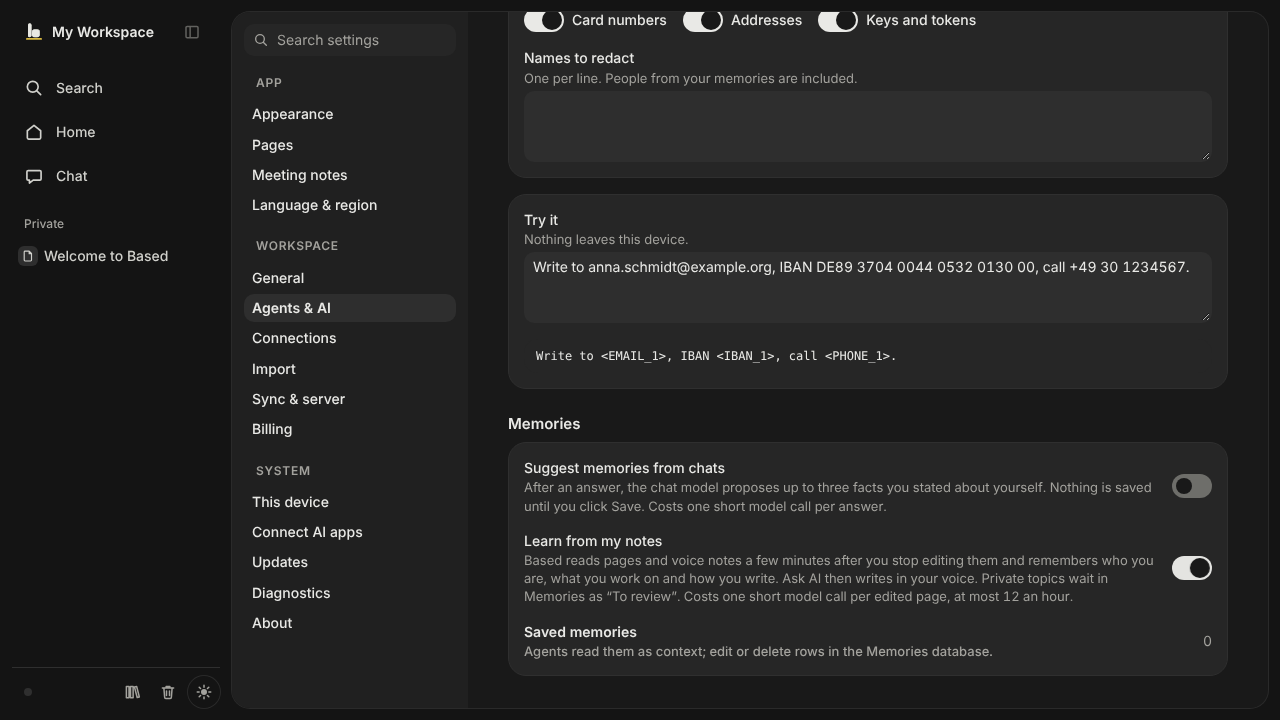
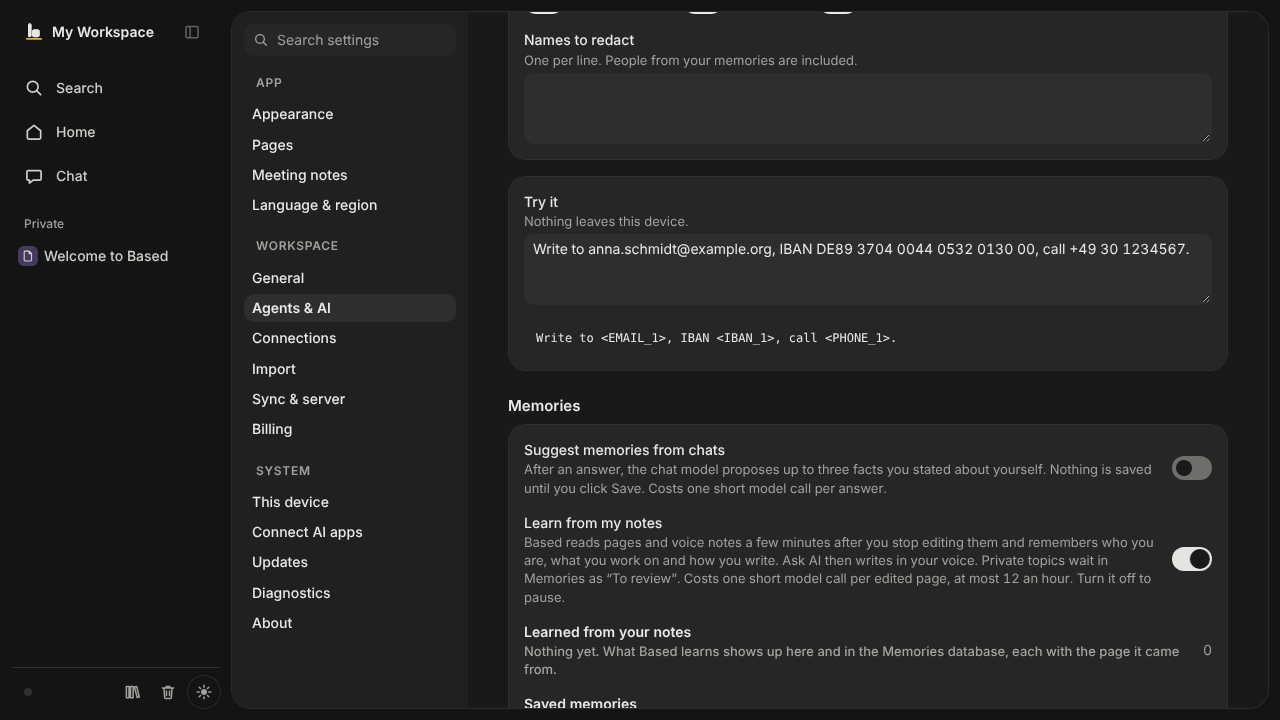
Gelerntes sichtbar und löschbar: Zeile „Learned from your notes“ mit „Forget…“
- gelernte Memories tragen „Learned from: <Seite>“ (statt Source), auch die heiklen
- AgentBrain.learnedMemories/forgetLearned (Papierkorb, wiederherstellbar; eigene Memories bleiben)
- Einstellungen → Memories: Anzahl, Hinweis auf „To review“, Rückfrage vor dem Vergessen

Claude-Session: https://claude.ai/code/session_01F33L4onQR2FbL2g6XSipVB

diff --git a/apps/web/src/brain/BrainSettings.tsx b/apps/web/src/brain/BrainSettings.tsx
@@ -6,11 +6,11 @@ import { Text } from "@astryxdesign/core/Text";
 import { TextArea } from "@astryxdesign/core/TextArea";
 import { VStack } from "@astryxdesign/core/Layout";
 import { Redactor, REDACT_KIND_LABELS, REDACT_KINDS, type SkillRecord } from "@based/brain";
-import { BasedButton } from "@based/ui/astryx";
+import { BasedButton, BasedConfirm } from "@based/ui/astryx";
 import { useEffect, useRef, useState, useSyncExternalStore } from "react";
 import { Group, Row, Value } from "../screens/settings/parts.js";
 import { registerSettingsSection, type SettingsSectionProps } from "../screens/settings/registry.js";
-import type { BrainStatus } from "../worker/brain.js";
+import type { BrainStatus, LearnedStatus } from "../worker/brain.js";
 import { BrainClient } from "./client.js";
 import { brainSettings } from "./settings.js";
 import "./brain.css";
@@ -143,8 +143,21 @@ function PrivacySection({ client: store }: SettingsSectionProps) {
 function MemoriesSection({ client: store, state, navigate }: SettingsSectionProps) {
   const client = useRef(new BrainClient(store)).current;
   const settings = useSyncExternalStore(brainSettings().subscribe, brainSettings().getState);
-  const [status] = useBrainStatus(client, state.outline);
+  const [status, reload] = useBrainStatus(client, state.outline);
   const ai = useSyncExternalStore(aiSetting.subscribe, aiSetting.get);
+  const [learned, setLearned] = useState<LearnedStatus>({ count: 0, review: 0 });
+  const [forgetting, setForgetting] = useState(false);
+  useEffect(() => { void client.learned().then(setLearned, () => undefined); }, [client, status]);
+  const forget = async () => {
+    await client.forgetLearned();
+    // Auch der Lesestand auf diesem Gerät: sonst gälten die Seiten weiter als gelesen.
+    try { localStorage.removeItem("based.brain.learn"); } catch { /* nur für diese Sitzung */ }
+    setForgetting(false);
+    reload();
+  };
+  const learnedHint = learned.count === 0
+    ? "Nothing yet. What Based learns shows up here and in the Memories database, each with the page it came from."
+    : `${learned.review > 0 ? `${learned.review} private ${learned.review === 1 ? "topic waits" : "topics wait"} as “To review” and ${learned.review === 1 ? "is" : "are"} not used yet. ` : ""}Each memory links the page it came from.`;
   return (
     <Group>
       {ai ? (
@@ -158,15 +171,24 @@ function MemoriesSection({ client: store, state, navigate }: SettingsSectionProp
       {ai ? (
         <Switch
           label="Learn from my notes"
-          description="Based reads pages and voice notes a few minutes after you stop editing them and remembers who you are, what you work on and how you write. Ask AI then writes in your voice. Private topics wait in Memories as “To review”. Costs one short model call per edited page, at most 12 an hour."
+          description="Based reads pages and voice notes a few minutes after you stop editing them and remembers who you are, what you work on and how you write. Ask AI then writes in your voice. Private topics wait in Memories as “To review”. Costs one short model call per edited page, at most 12 an hour. Turn it off to pause."
           value={settings.memories.learn === true} onChange={(on) => brainSettings().update((s) => ({ ...s, memories: { ...s.memories, learn: on } }))}
           labelPosition="start" labelSpacing="spread" width="100%"
         />
+      ) : null}
+      {ai && (settings.memories.learn === true || learned.count > 0) ? (
+        <Row label="Learned from your notes" hint={learnedHint}>
+          <Value testID="learned-count">{learned.count}</Value>
+          {learned.count > 0 ? <BasedButton label="Forget…" variant="ghost" onClick={() => setForgetting(true)} /> : null}
+        </Row>
       ) : null}
       <Row label="Saved memories" hint={ai ? "Agents read them as context; edit or delete rows in the Memories database." : "MCP clients read them as context; edit or delete rows in the Memories database."}>
         <Value testID="memory-count">{status?.memories ?? 0}</Value>
         {status?.exists && status.rootID ? <BasedButton label="Open Agent Brain" variant="ghost" onClick={() => navigate({ name: "page", id: status.rootID! })} /> : null}
       </Row>
+      <BasedConfirm open={forgetting} onClose={() => setForgetting(false)} title="Forget what Based learned?"
+        description={`${learned.count} ${learned.count === 1 ? "memory" : "memories"} learned from your notes, including your writing style, ${learned.count === 1 ? "moves" : "move"} to the Trash. Memories you saved yourself stay.`}
+        actionLabel="Forget" onConfirm={forget} />
     </Group>
   );
 }

diff --git a/packages/brain/src/agentbrain/store.ts b/packages/brain/src/agentbrain/store.ts
@@ -9,12 +9,12 @@
 // wird übernommen.
 import {
   addOption, addProperty, addRow, createDatabase, insertPage, isTrashed, keyOf, makeBlock, makeRecordID, MarkdownExporter, MarkdownImporter,
-  plainText, restorePages, setValue, sortKeys, titleOf, toRichText,
+  plainText, restorePages, setValue, sortKeys, titleOf, toRichText, trashPages,
   type Block, type BlockProps, type MarkdownBlock, type PropertyValue, type Tx, type WorkspaceStore,
 } from "@based/core";
 import { decodeSkill, encodeSkill, isTextData, skillFileLanguage, type SkillDocument, type SkillFolder } from "../skills/codec.js";
 import { MEMORY_KINDS, MEMORY_STATUSES, normalizedWords, similarTitles, type MemoryKind, type MemoryRecord, type MemoryStatus, type MemorySuggestion } from "../memory/suggestions.js";
-import { STYLE_TITLE } from "../memory/learn.js";
+import { isLearned, LEARNED_PREFIX, STYLE_TITLE } from "../memory/learn.js";
 import { tokenize } from "../semantic/text.js";
 
 /** Link auf eine Seite in Markdown (wird beim Schreiben eine Erwähnung und damit eine Kante im Graphen). */
@@ -581,10 +581,9 @@ export class AgentBrain {
     const ids = this.ensure();
     const db = ids.memoriesDB;
     const existing = (m.updates && this.memories().find((x) => x.id === m.updates)) || this.memories().find((x) => similarTitles(x.title, m.title));
-    // `source` (gelernt aus einer Seite): Verknüpfung wie bei `remember`, damit man sieht, woher es kommt.
-    const src = m.source ? this.store.blocks.get(m.source) : undefined;
-    const body = src && (src.type === "page" || src.type === "databasePage")
-      ? `${m.body}\n\nSource: [${(titleOf(this.store, src.id) || "Untitled").replace(/[[\]]/g, "")}](${PAGE_LINK}${src.id})` : m.body;
+    // `source` (gelernt aus einer Seite): Verknüpfung, damit man sieht, woher es kommt – und es wieder vergessen kann.
+    const from = m.source ? this.learnedLine(m.source) : undefined;
+    const body = from ? `${m.body}\n\n${from}` : m.body;
     if (existing) {
       this.store.transact("Update memory", (tx) => this.putMarkdown(tx, existing.id, body, "end", true));
       return existing.id;
@@ -606,13 +605,25 @@ export class AgentBrain {
    */
   saveLearned(m: MemorySuggestion, source?: string): string {
     if (!m.sensitive) return this.saveMemory({ title: m.title, kind: m.kind, body: m.body, updates: m.updates, source });
-    const fact = `${m.title}: ${m.body}`;
-    try {
-      return this.remember({ fact, kind: m.kind, review: true, ...(source ? { source } : {}) }).id;
-    } catch (e) {
-      if (!(e instanceof RememberError)) throw e;
-      return this.remember({ fact, kind: m.kind, review: true }).id;
-    }
+    const from = source ? this.learnedLine(source) : undefined;
+    return this.remember({ fact: `${m.title}: ${m.body}`, kind: m.kind, review: true, detail: from ?? LEARNED_PREFIX + " your notes" }).id;
+  }
+
+  private learnedLine(source: string): string | undefined {
+    const src = this.store.blocks.get(source);
+    if (!src || (src.type !== "page" && src.type !== "databasePage")) return undefined;
+    return `${LEARNED_PREFIX} [${(titleOf(this.store, src.id) || "Untitled").replace(/[[\]]/g, "")}](${PAGE_LINK}${src.id})`;
+  }
+
+  /** Memories, die das Lernen aus Notizen angelegt oder ergänzt hat (Zeile „Learned from: …“), dazu der Schreibstil. */
+  learnedMemories(): MemoryRecord[] {
+    return this.memories().filter((m) => m.status !== "Superseded" && (isLearned(m.body) || normalizedWords(m.title) === normalizedWords(STYLE_TITLE)));
+  }
+
+  /** Alles Gelernte in den Papierkorb (wiederherstellbar). Gibt die Anzahl zurück. */
+  forgetLearned(): number {
+    const ids = this.learnedMemories().map((m) => m.id);
+    return ids.length ? trashPages(this.store, ids).length : 0;
   }
 
   /** Die eine Memory „Writing style“: der Rumpf wird ersetzt (kein Anhängen – der Stil ist immer der aktuelle). */

diff --git a/apps/web/src/worker/brain.ts b/apps/web/src/worker/brain.ts
@@ -3,7 +3,7 @@
 // Hauptthread bekommt nur Ergebnisse. Schützt die Brain-Seiten vor dem Löschen und repariert nach Änderungen.
 import { isPageLike, isTrashed, meetingInfo, meetingTranscript, parseKey, plainText, titleOf, transcriptText, type StoreChange, type WorkspaceStore } from "@based/core";
 import {
-  AgentBrain, BrainTools, CHAT_TYPE, chunkTexts, deletableIDs, LEARN_PAGE_CHARS, LocalSemanticIndex, personalContext, protectedIDs, SkillCodecError, skillFoldersFromZip, skillFoldersToZip, SkillRouter,
+  AgentBrain, BrainTools, CHAT_TYPE, chunkTexts, deletableIDs, LEARN_PAGE_CHARS, learnedPageIDs, LocalSemanticIndex, personalContext, protectedIDs, SkillCodecError, skillFoldersFromZip, skillFoldersToZip, SkillRouter,
   STYLE_SAMPLE_CHARS,
   type Citation, type LearnCandidate, type MemoryKind, type MemoryRecord, type MemorySuggestion, type SemanticHit, type SkillCorrection, type SkillFolder, type SkillRecord, type SkillRouting, type TextEmbedder, type ToolResult, type ToolSpec,
 } from "@based/brain";
@@ -29,6 +29,9 @@ export type BrainAction =
   | { op: "learnSave"; pageID: string; suggestions: MemorySuggestion[] }
   | { op: "styleSamples" }
   | { op: "saveStyle"; body: string }
+  /** Wie viel gelernt wurde und was auf Freigabe wartet (Einstellungen → Memories). */
+  | { op: "learned" }
+  | { op: "forgetLearned" }
   /** Was ein Schreib-Aufruf über den Nutzer wissen soll (About me, Schreibstil, passende Memories). */
   | { op: "personal"; query: string }
   | { op: "resolveCitations"; markers: { kind: "block" | "page"; id: string }[] }
@@ -41,6 +44,12 @@ export interface BrainStatus {
   rootID?: string;
   skills: number;
   memories: number;
+}
+
+export interface LearnedStatus {
+  count: number;
+  /** Davon heikel: warten in Memories als „To review“. */
+  review: number;
 }
 
 export interface SkillImportReport {
@@ -102,6 +111,11 @@ export class BrainHost {
       }
       case "styleSamples": return this.styleSamples();
       case "saveStyle": return b.setStyle(a.body);
+      case "learned": {
+        const all = b.exists ? b.learnedMemories() : [];
+        return { count: all.length, review: all.filter((m) => m.status === "To review").length } satisfies LearnedStatus;
+      }
+      case "forgetLearned": return b.exists ? b.forgetLearned() : 0;
       case "personal": return b.exists ? personalContext({ about: b.about(), memories: b.activeMemories(), query: a.query }) : "";
       case "resolveCitations": return this.resolveCitations(a.markers);
       case "related": return this.related(a.pageID, a.limit ?? 5);
@@ -242,7 +256,7 @@ export class BrainHost {
     const linked = new Map<string, number>();
     if (this.learnDirty.size > 0) {
       for (const m of this.brain.memories()) {
-        const sources = [...m.body.matchAll(/^Source:.*?\(based:\/\/page\/([^)\s]+)\)/gm)].map((x) => x[1]!);
+        const sources = learnedPageIDs(m.body);
         if (sources.length === 0) continue;
         let at = this.store.blocks.get(m.id)?.updatedAt ?? 0;
         for (const k of this.store.children("b:" + m.id)) at = Math.max(at, this.store.blocks.get(k)?.updatedAt ?? 0);

diff --git a/packages/brain/test/learn.test.ts b/packages/brain/test/learn.test.ts
@@ -103,7 +103,7 @@ describe("what was learned is saved without asking, private topics wait", () => 
     const m = brain.activeMemories().find((x) => x.id === id)!;
     expect(m.body).toContain("Building a notes app.");
     expect(m.body).toContain("Wants it to replace Notion.");
-    expect(m.body).toContain(`Source: [Ideas](based://page/${page})`);
+    expect(m.body).toContain(`Learned from: [Ideas](based://page/${page})`);
   });
 
   it("puts sensitive facts into “To review”, where they don't count yet", () => {
@@ -116,13 +116,27 @@ describe("what was learned is saved without asking, private topics wait", () => 
     // Eine Quelle, die es nicht (mehr) gibt, verhindert das Merken nicht.
     expect(brain.saveLearned({ title: "Money", kind: "Profile", body: "Has a loan.", sensitive: true }, "missing")).toBeTruthy();
   });
+
+  it("can be forgotten as a whole – what the user saved stays", () => {
+    const store = memoryStore();
+    const brain = new AgentBrain(store);
+    const page = createPage(store, { title: "Ideas" });
+    const own = brain.saveMemory({ title: "Role", kind: "Profile", body: "Founder." });
+    brain.saveLearned({ title: "Project Based", kind: "Work", body: "Building a notes app.", sensitive: false }, page);
+    brain.saveLearned({ title: "Health", kind: "Profile", body: "Sees a doctor monthly.", sensitive: true }, page);
+    brain.setStyle("- Short.");
+    expect(brain.learnedMemories()).toHaveLength(3);
+    expect(brain.forgetLearned()).toBe(3);
+    expect(brain.memories().map((m) => m.id)).toEqual([own]);
+    expect(brain.forgetLearned()).toBe(0);
+  });
 });
 
 describe("personal context for writing", () => {
   const mem = (title: string, kind: MemoryRecord["kind"], body: string): MemoryRecord => ({ id: title, title, kind, body });
   const memories = [
     mem(STYLE_TITLE, "Preference", "- Short, direct sentences.\n- German."),
-    mem("Project Based", "Work", "A notes app that should replace Notion.\n\nSource: [Ideas](based://page/p1)"),
+    mem("Project Based", "Work", "A notes app that should replace Notion.\n\nLearned from: [Ideas](based://page/p1)"),
     mem("Anna", "People", "Designs the website."),
     mem("Role", "Profile", "Solo founder."),
   ];
@@ -139,7 +153,7 @@ describe("personal context for writing", () => {
     expect(c).toContain("- Project Based: A notes app that should replace Notion.");
     expect(c).toContain("- Anna: Designs the website.");
     expect(c).toContain("- Role: Solo founder.");
-    expect(c).not.toContain("Source:");
+    expect(c).not.toContain("Learned from:");
     expect(c.length).toBeLessThanOrEqual(2400);
   });
 

diff --git a/apps/web/src/brain/client.ts b/apps/web/src/brain/client.ts
@@ -1,7 +1,7 @@
 // Dünner Zugang zum Agent Brain im Store-Worker (worker/brain.ts) über den vorhandenen StoreClient.
 import type { LearnCandidate, MemoryKind, MemoryRecord, MemorySuggestion, SemanticHit, SkillCorrection, SkillRecord, SkillRouting, ToolResult, ToolSpec } from "@based/brain";
 import type { JSONValue } from "@based/core";
-import type { BrainAction, BrainStatus, ResolvedCitation, SkillImportReport } from "../worker/brain.js";
+import type { BrainAction, BrainStatus, LearnedStatus, ResolvedCitation, SkillImportReport } from "../worker/brain.js";
 import type { StoreClient } from "../worker/client.js";
 
 export class BrainClient {
@@ -28,6 +28,8 @@ export class BrainClient {
   learnSave(pageID: string, suggestions: MemorySuggestion[]) { return this.call<string[]>({ op: "learnSave", pageID, suggestions }); }
   styleSamples() { return this.call<string>({ op: "styleSamples" }); }
   saveStyle(body: string) { return this.call<string>({ op: "saveStyle", body }); }
+  learned() { return this.call<LearnedStatus>({ op: "learned" }); }
+  forgetLearned() { return this.call<number>({ op: "forgetLearned" }); }
   personal(query: string) { return this.call<string>({ op: "personal", query }); }
   personNames() { return this.call<string[]>({ op: "personNames" }); }
   resolveCitations(markers: { kind: "block" | "page"; id: string }[]) { return this.call<Record<string, ResolvedCitation | null>>({ op: "resolveCitations", markers }); }

diff --git a/packages/brain/src/memory/learn.ts b/packages/brain/src/memory/learn.ts
@@ -91,6 +91,13 @@ export function markLearned(state: LearnState, id: string, text: string, now: nu
   return { ...state, pages, runs: called ? [...state.runs.filter((t) => now - t < HOUR), now] : state.runs };
 }
 
+/** So beginnt die Zeile, die eine gelernte Memory mit ihrer Seite verknüpft. */
+export const LEARNED_PREFIX = "Learned from:";
+export const isLearned = (body: string): boolean => body.split("\n").some((l) => l.trim().startsWith(LEARNED_PREFIX));
+/** Seiten, aus denen eine Memory gelernt wurde. */
+export const learnedPageIDs = (body: string): string[] =>
+  body.split("\n").filter((l) => l.trim().startsWith(LEARNED_PREFIX)).flatMap((l) => [...l.matchAll(/\(based:\/\/page\/([^)\s]+)\)/g)].map((m) => m[1]!));
+
 // MARK: Schreibstil
 
 export const STYLE_TITLE = "Writing style";
@@ -143,7 +150,7 @@ export function relevantMemories(memories: readonly MemoryRecord[], query: strin
 }
 
 /** Zeilen wie „About: …“/„Source: …“ sind Verknüpfungen, kein Wissen. */
-const factText = (body: string) => body.split("\n").filter((l) => !/^(About|Source|Replaces):\s/.test(l.trim())).join("\n").trim();
+const factText = (body: string) => body.split("\n").filter((l) => !/^(About|Source|Replaces|Learned from):\s/.test(l.trim())).join("\n").trim();
 
 /**
  * Zusatz zum System-Prompt eines Schreib-Aufrufs: wer der Nutzer ist („About me“), wie er schreibt („Writing

diff --git a/apps/web/e2e/brain.spec.ts b/apps/web/e2e/brain.spec.ts
@@ -276,5 +276,18 @@ for (const theme of ["light", "dark"] as const) {
     expect(result).toEqual(["page", "idle"]);
     await page.goto("/#prefs-agents");
     await expect(page.getByTestId("memory-count")).toHaveText("1");
+    // Sichtbar und löschbar: die Zeile zählt das Gelernte, „Forget…“ fragt nach und räumt nur das Gelernte weg.
+    await expect(page.getByTestId("learned-count")).toHaveText("1");
+    await page.getByTestId("learned-count").scrollIntoViewIfNeeded();
+    await page.screenshot({ path: `${SHOTS}settings-memories-learned-${theme}.png` });
+    await page.getByRole("button", { name: "Forget…" }).click();
+    const dialog = page.getByRole("alertdialog", { name: "Forget what Based learned?" });
+    await expect(dialog).toContainText("1 memory learned from your notes");
+    await page.waitForTimeout(300); // Einblendung des Dialogs abwarten (nur fürs Foto)
+    await page.screenshot({ path: `${SHOTS}settings-memories-forget-${theme}.png` });
+    await dialog.getByRole("button", { name: "Forget" }).click();
+    await expect(page.getByTestId("learned-count")).toHaveText("0");
+    await expect(page.getByTestId("memory-count")).toHaveText("0");
+    expect(await page.evaluate(() => localStorage.getItem("based.brain.learn"))).toBeNull();
   });
 }

diff --git a/apps/web/src/worker/brain-learn.test.ts b/apps/web/src/worker/brain-learn.test.ts
@@ -39,7 +39,7 @@ describe("BrainHost: learning from notes", () => {
     t.host.handle({ op: "learnSave", pageID: id, suggestions: [{ title: "Project Based", kind: "Work", body: "Building a notes app.", sensitive: false }] });
     expect(t.candidates()).toEqual([]);
     const m = (t.host.handle({ op: "memories" }) as { title: string; body: string }[]).find((x) => x.title === "Project Based")!;
-    expect(m.body).toContain(`Source: [Ideas](based://page/${id})`);
+    expect(m.body).toContain(`Learned from: [Ideas](based://page/${id})`);
     new WorkspaceTools(t.store).callSync("append_markdown", { page_id: id, markdown: "More." });
     expect(t.candidates().map((x) => x.id)).toEqual([id]);
   });
